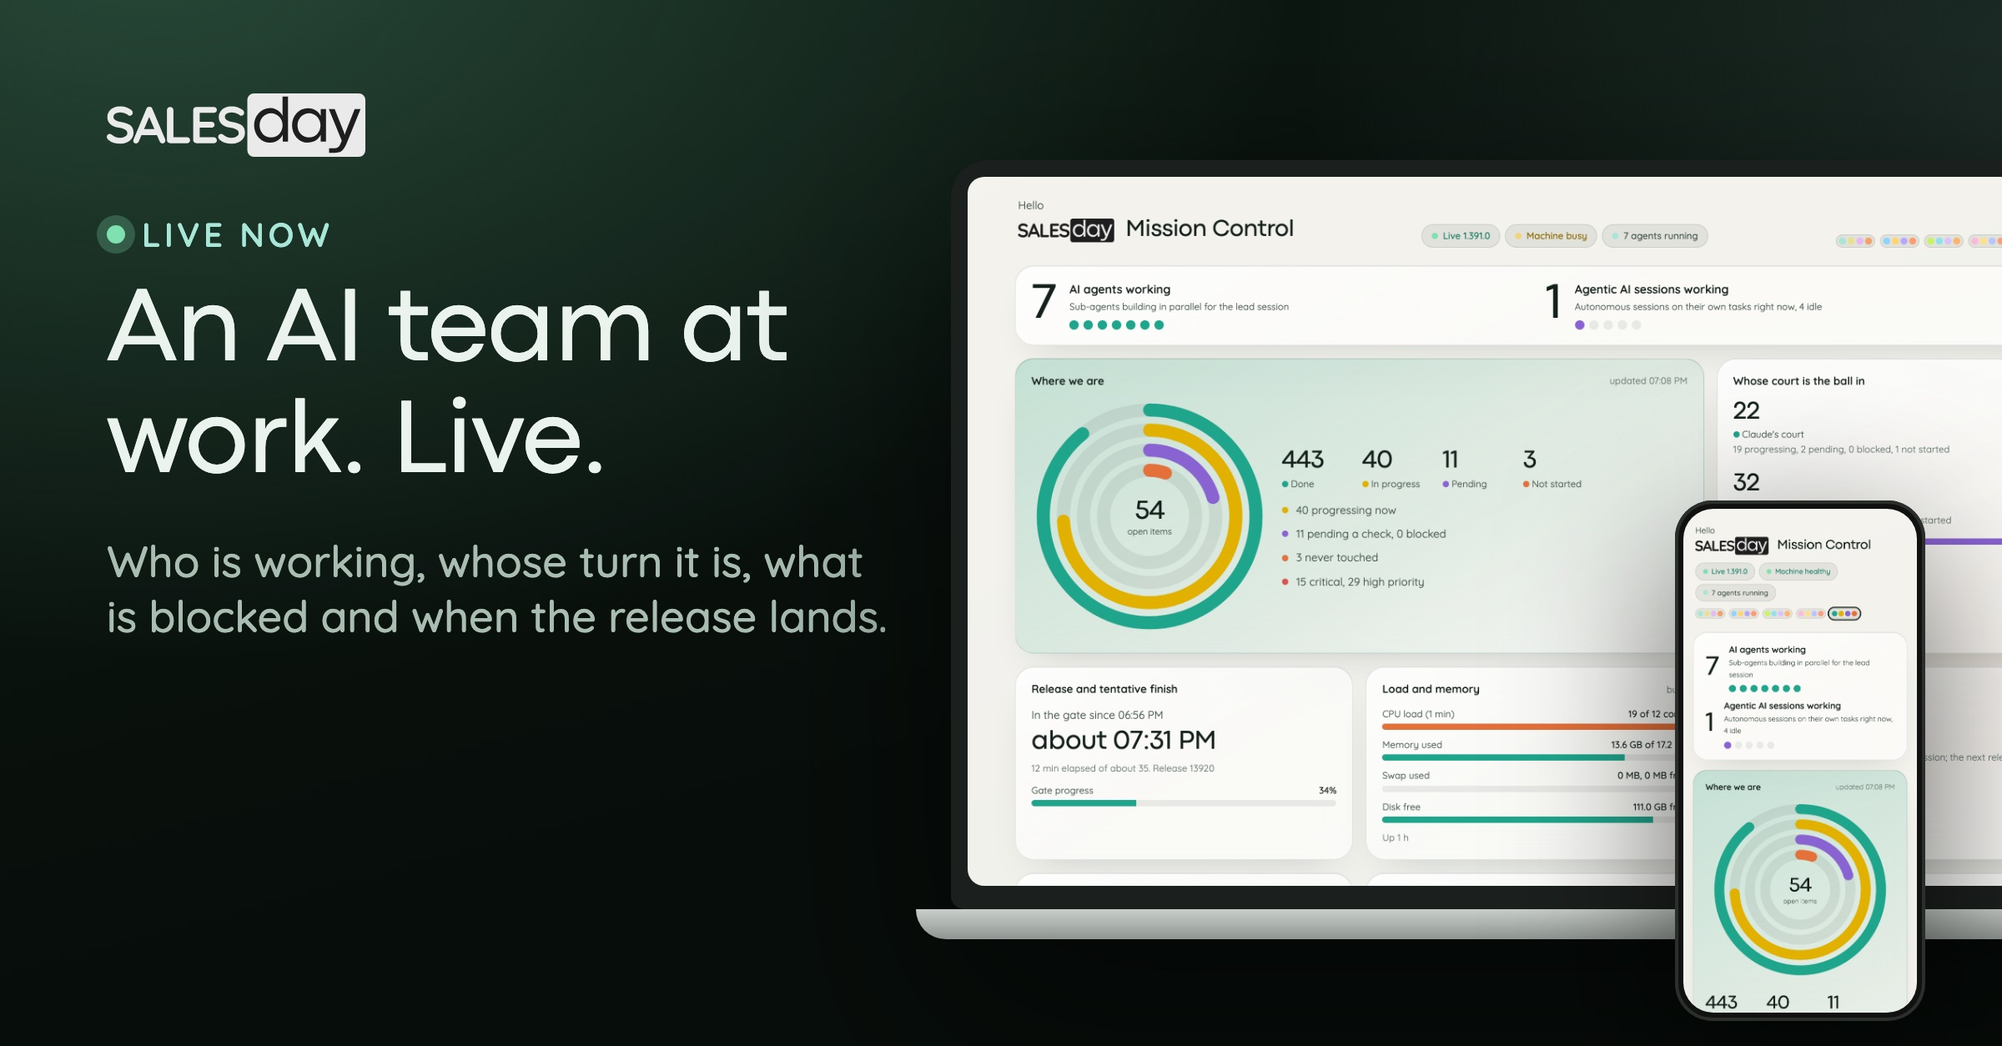
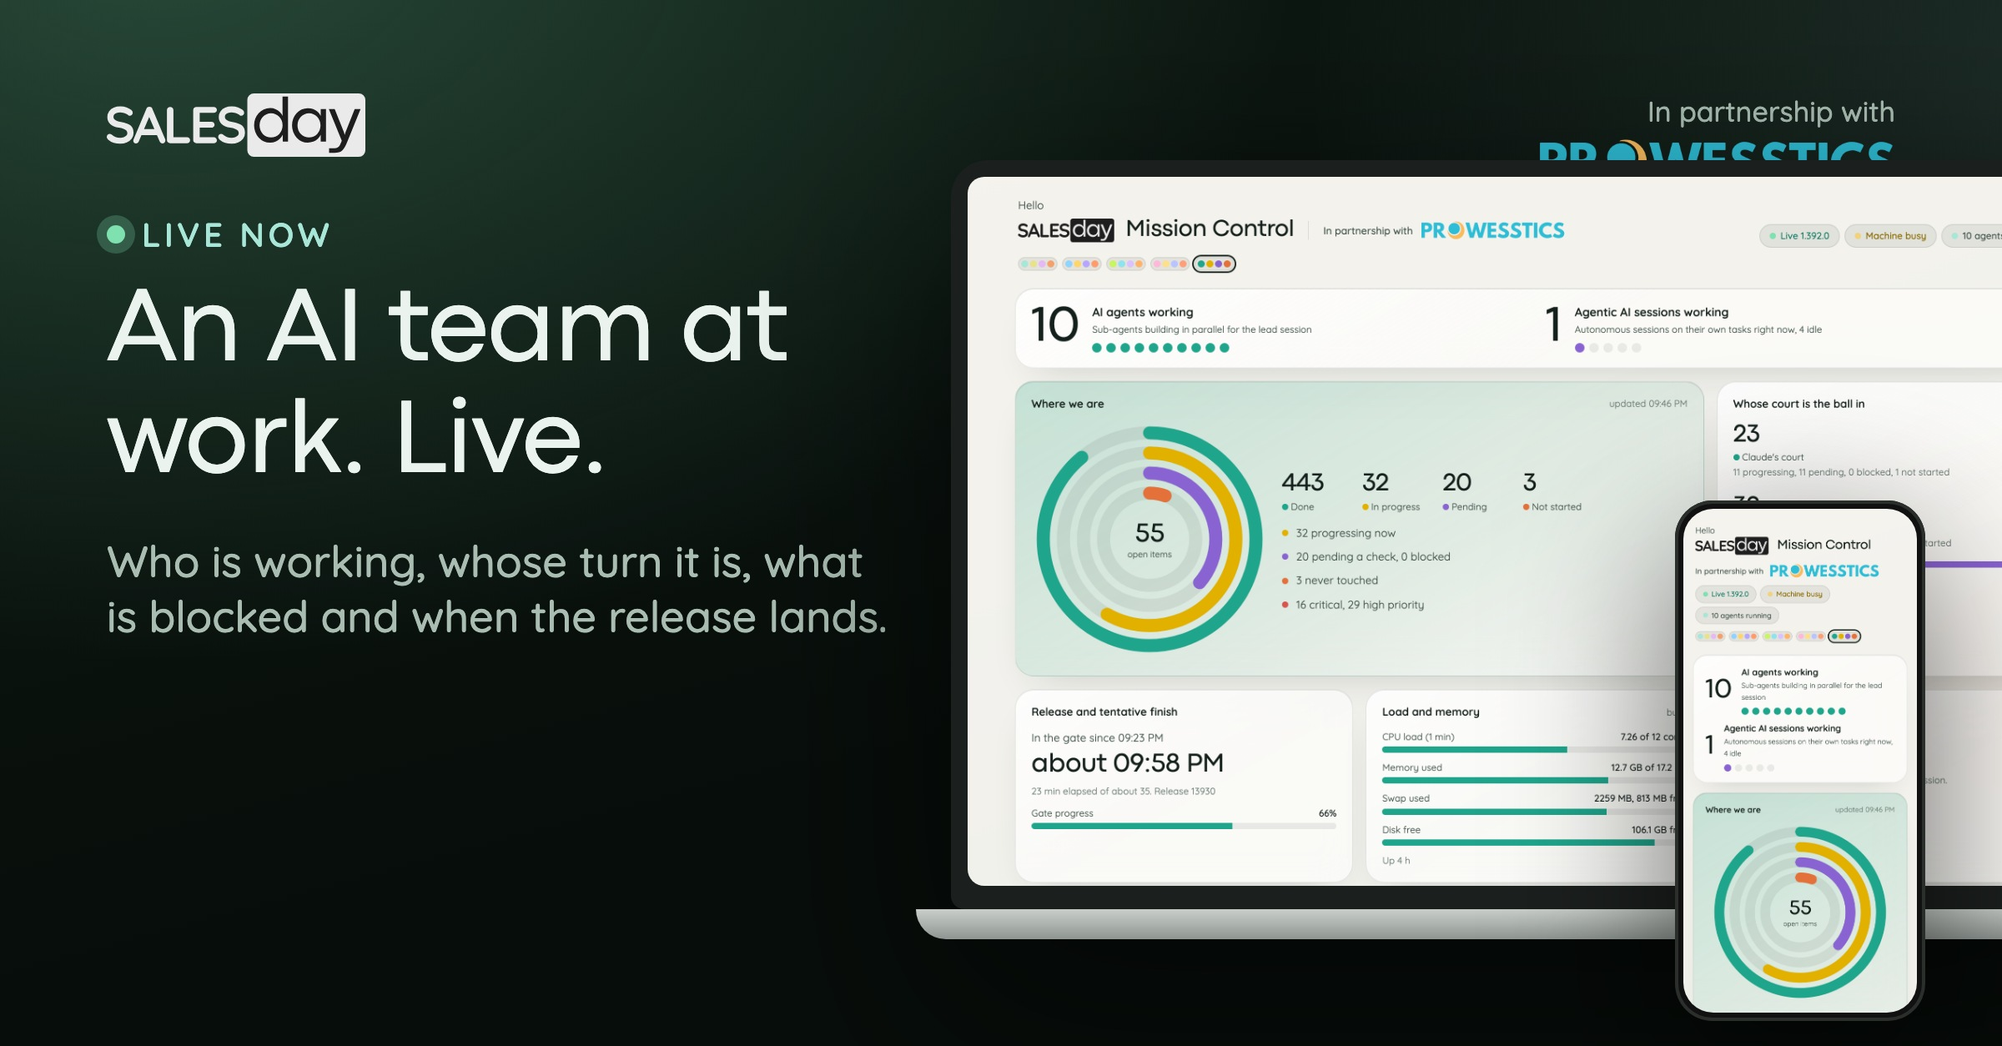
Optional partner co-brand mark (off by default), added to the LinkedIn images

diff --git a/linkedin/carousel-android.js b/linkedin/carousel-android.js
@@ -8,16 +8,17 @@ const u = (p) => 'file://' + p;
 const fonts = `@font-face{font-family:Quicksand;font-weight:400 700;src:url(${u(R + '/public/fonts/quicksand-latin.woff2')}) format('woff2')}@font-face{font-family:"Codec Pro";font-weight:400;src:url(${u(R + '/public/fonts/codec-pro-regular.woff2')}) format('woff2')}`;
 const bg = `radial-gradient(1100px 700px at 8% -6%,rgba(86,160,125,.34),transparent 62%),radial-gradient(800px 640px at 105% 8%,rgba(168,230,216,.12),transparent 60%),linear-gradient(165deg,#0F1B14,#070D0A 64%)`;
 const wm = u(R + '/public/brand/salesday-wordmark-reversed.svg');
+const PL = u(R + '/public/brand/partner-logo.png');
 const names = ['01-today', '02-signin', '03-contact-card', '04-call-outcome', '05-offline-outbox', '06-notifications', '07-meetings', '08-card-capture', '09-voice-note', '10-widget-dark'];
 const files = fs.readdirSync(PH).filter((f) => /^post-\d\d-.*\.jpg$/.test(f)).sort();
 const css = `${fonts}@page{size:1080px 1350px;margin:0}*{box-sizing:border-box}html,body{margin:0;background:#070D0A}.s{position:relative;width:1080px;height:1350px;overflow:hidden;page-break-after:always;break-after:page;font-family:Quicksand,"Avenir Next",sans-serif;color:#EAF3EE;padding:76px 80px;display:flex;flex-direction:column;background:${bg}}
-.top{display:flex;justify-content:space-between;align-items:center;height:56px;flex:none}.top img{height:44px}.top span{font-size:24px;color:#A9BDB2;letter-spacing:.04em}
+.top{display:flex;justify-content:space-between;align-items:center;height:56px;flex:none}.top img{height:44px}.top span{font-size:24px;color:#A9BDB2;letter-spacing:.04em;display:flex;flex-direction:column;align-items:flex-end;gap:6px}.top span img{height:28px;width:auto;display:block}.top span em{font-style:normal;font-size:22px}
 .k{font-size:26px;letter-spacing:.14em;text-transform:uppercase;color:#A8E6D8;font-weight:600}h1{margin:16px 0 0;font-family:"Codec Pro",Quicksand,sans-serif;font-weight:400;font-size:98px;line-height:1.03;letter-spacing:-.015em}p{margin:20px 0 0;font-size:34px;color:#A9BDB2;font-weight:500;max-width:820px}
 .mid{flex:1;display:flex;align-items:center;justify-content:center;gap:26px;min-height:0}.mid img{height:640px;display:block}.foot{flex:none;height:50px;display:flex;justify-content:space-between;align-items:center;font-size:26px;color:#6E8578;font-weight:500}.sw{color:#E8E28C;font-weight:600}
 .img{padding:0;display:block}.img img{width:1080px;height:1350px;display:block}`;
-const cover = `<section class="s" id="cover"><div class="top"><img src="${wm}"><span>1 / 12</span></div><div style="margin-top:46px"><div class="k">SalesDay for Android</div><h1>The first ten screens.</h1><p>Designed around one sales rep's day, before a single line of code.</p></div><div class="mid"><img src="${u(PH + '/_phones/01-today.png')}" style="height:600px"><img src="${u(PH + '/_phones/02-signin.png')}" style="height:600px"><img src="${u(PH + '/_phones/03-contact-card.png')}" style="height:600px"></div><div class="foot"><span>Design preview, not a release</span><span class="sw">Swipe &rarr;</span></div></section>`;
+const cover = `<section class="s" id="cover"><div class="top"><img src="${wm}"><span><img src="${PL}"><em>1 / 12</em></span></div><div style="margin-top:46px"><div class="k">SalesDay for Android</div><h1>The first ten screens.</h1><p>Designed around one sales rep's day, before a single line of code.</p></div><div class="mid"><img src="${u(PH + '/_phones/01-today.png')}" style="height:600px"><img src="${u(PH + '/_phones/02-signin.png')}" style="height:600px"><img src="${u(PH + '/_phones/03-contact-card.png')}" style="height:600px"></div><div class="foot"><span>Design preview, not a release</span><span class="sw">Swipe &rarr;</span></div></section>`;
 const mids = files.map((f) => `<section class="s img"><img src="${u(PH + '/' + f)}"></section>`).join('');
-const end = `<section class="s" id="end"><div class="top"><img src="${wm}"><span>12 / 12</span></div><div style="flex:1;display:flex;flex-direction:column;justify-content:center"><div class="k">Your turn</div><h1>Which screen would you open first?</h1><p>One thing a sales app must do well on a phone: tell me in the comments.</p><p style="margin-top:44px;color:#EAF3EE;font-weight:600">Follow for the build, one release at a time.</p></div><div class="foot"><span>SalesDay for Android</span><span class="sw">Design preview</span></div></section>`;
+const end = `<section class="s" id="end"><div class="top"><img src="${wm}"><span><img src="${PL}"><em>12 / 12</em></span></div><div style="flex:1;display:flex;flex-direction:column;justify-content:center"><div class="k">Your turn</div><h1>Which screen would you open first?</h1><p>One thing a sales app must do well on a phone: tell me in the comments.</p><p style="margin-top:44px;color:#EAF3EE;font-weight:600">Follow for the build, one release at a time.</p></div><div class="foot"><span>SalesDay for Android</span><span class="sw">Design preview</span></div></section>`;
 (async () => {
   const b = await pw.chromium.launch();
   const tmp = path.join(OUT, '_tmp.html'); fs.writeFileSync(tmp, `<!doctype html><meta charset="utf-8"><style>${css}</style>${cover}${mids}${end}`);

diff --git a/linkedin/compose.js b/linkedin/compose.js
@@ -9,6 +9,8 @@ const u = (p) => 'file://' + p;
 const fonts = `@font-face{font-family:Quicksand;font-weight:400 700;src:url(${u(R + '/public/fonts/quicksand-latin.woff2')}) format('woff2')}@font-face{font-family:"Codec Pro";font-weight:400;src:url(${u(R + '/public/fonts/codec-pro-regular.woff2')}) format('woff2')}`;
 const bg = `radial-gradient(1100px 700px at 8% -6%,rgba(86,160,125,.34),transparent 62%),radial-gradient(800px 640px at 105% 8%,rgba(168,230,216,.12),transparent 60%),linear-gradient(165deg,#0F1B14,#070D0A 64%)`;
 const wm = u(R + '/public/brand/salesday-wordmark-reversed.svg');
+const pl = u(R + '/public/brand/partner-logo.png');
+const partner = (h, fs) => `<div style="position:absolute;right:80px;top:70px;display:flex;flex-direction:column;align-items:flex-end;gap:8px"><span style="font-size:${fs}px;color:#A9BDB2;font-weight:500">In partnership with</span><img src="${pl}" style="height:${h}px;display:block"></div>`;
 const laptop = (w, src) => `<div style="width:${w}px;filter:drop-shadow(0 40px 60px rgba(0,0,0,.55))"><div style="background:#1b1f1d;border-radius:22px 22px 8px 8px;padding:${w * .014}px ${w * .014}px ${w * .02}px"><div style="border-radius:10px;overflow:hidden;line-height:0"><img src="${src}" style="width:100%;display:block"></div></div><div style="height:${w * .026}px;margin:0 -${w * .03}px;background:linear-gradient(#c9ceca,#8f9692);border-radius:0 0 18px 18px"></div></div>`;
 const phone = (w, src) => `<div style="width:${w}px;background:#111;border-radius:${w * .15}px;padding:${w * .035}px;filter:drop-shadow(0 30px 50px rgba(0,0,0,.6));box-shadow:0 0 0 2px #2a2f2c inset"><div style="border-radius:${w * .12}px;overflow:hidden;line-height:0"><img src="${src}" style="width:100%;display:block"></div></div>`;
 const base = `${fonts}*{box-sizing:border-box}html,body{margin:0}body{font-family:Quicksand,"Avenir Next",sans-serif;color:#EAF3EE;background:${bg};overflow:hidden;position:relative}h1{margin:0;font-family:"Codec Pro",Quicksand,sans-serif;font-weight:400;letter-spacing:-.01em;line-height:1.04}.pill{white-space:nowrap;display:inline-block;padding:16px 30px;border-radius:999px;background:#E8E28C;color:#1B2210;font-weight:600;font-size:30px}.live{display:inline-flex;align-items:center;gap:10px;font-size:24px;color:#A8E6D8;font-weight:600;letter-spacing:.12em;text-transform:uppercase}.live i{width:14px;height:14px;border-radius:50%;background:#7FE0B0;box-shadow:0 0 0 6px rgba(127,224,176,.25)}`;
@@ -19,7 +21,7 @@ const load = async (page, html) => { const f = path.join(OUT, '_tmp.html'); fs.w
   const b = await pw.chromium.launch();
   const p = await b.newPage({ viewport: { width: 1080, height: 1350 }, deviceScaleFactor: 2 });
   await load(p, `<style>${base}body{width:1080px;height:1350px;padding:76px 80px}</style>
-  <img src="${wm}" style="height:44px;display:block"><div class="live" style="margin-top:46px"><i></i>Live right now</div>
+  <img src="${wm}" style="height:44px;display:block">${partner(36, 22)}<div class="live" style="margin-top:46px"><i></i>Live right now</div>
   <h1 style="font-size:92px;margin-top:20px">Watch an AI team build a product. Live.</h1>
   <div style="position:absolute;left:60px;top:430px">${laptop(860, u('/tmp/desk.png'))}</div>
   <div style="position:absolute;right:56px;top:520px">${phone(250, u('/tmp/phone.png'))}</div>
@@ -28,7 +30,7 @@ const load = async (page, html) => { const f = path.join(OUT, '_tmp.html'); fs.w
   await p.screenshot({ path: path.join(OUT, 'post2-hero-1080x1350.jpg'), type: 'jpeg', quality: 93 });
   const q = await b.newPage({ viewport: { width: 1200, height: 627 }, deviceScaleFactor: 2 });
   await load(q, `<style>${base}body{width:1200px;height:627px;padding:56px 64px}</style>
-  <img src="${wm}" style="height:38px;display:block"><div class="live" style="margin-top:34px;font-size:20px"><i style="width:11px;height:11px"></i>Live now</div>
+  <img src="${wm}" style="height:38px;display:block"><div style="position:absolute;right:64px;top:56px;display:flex;flex-direction:column;align-items:flex-end;gap:6px"><span style="font-size:17px;color:#A9BDB2;font-weight:500">In partnership with</span><img src="${pl}" style="height:28px;display:block"></div><div class="live" style="margin-top:34px;font-size:20px"><i style="width:11px;height:11px"></i>Live now</div>
   <h1 style="font-size:64px;margin-top:14px;width:520px">An AI team at work. Live.</h1>
   <p style="font-size:26px;color:#A9BDB2;font-weight:500;width:470px;margin:20px 0 0">Who is working, whose turn it is, what is blocked and when the release lands.</p>
   <div style="position:absolute;right:-70px;top:96px">${laptop(700, u('/tmp/desk.png'))}</div>

diff --git a/public/index.html b/public/index.html
@@ -44,10 +44,11 @@ canvas.chart{display:block;width:100%;height:210px;border-radius:14px}canvas.cha
 @media(prefers-reduced-motion:reduce){.crewDots i{animation:none}}
 footer{color:var(--ink3);font-size:12px;text-align:center}
 .brand{display:flex;align-items:center;gap:14px;flex-wrap:wrap}.brand img{height:30px;width:auto;display:block}.brand h1{margin:0;font-size:clamp(22px,2.8vw,30px)}
+.partner{display:inline-flex;align-items:center;gap:10px;padding-left:18px;margin-left:4px;border-left:1px solid var(--line);color:var(--ink2);font-size:13px;font-weight:500}.partner img{height:24px;width:auto;display:block}@media(max-width:700px){.partner{padding-left:0;margin-left:0;border-left:0;flex-basis:100%}}
 .swatches{display:inline-flex;gap:6px;align-items:center}.swatches button{border:1px solid var(--line);background:var(--track);padding:3px;border-radius:999px;cursor:pointer;display:inline-flex;gap:2px}.swatches button[aria-pressed=true]{outline:2px solid var(--ink);outline-offset:1px}.swatches i{width:9px;height:9px;border-radius:50%;display:block}
 </style></head>
 <body><div class="wrap">
-<header><div><div class="hi" id="hi">Hello</div><div class="brand"><img id="logo" src="brand/salesday-wordmark-reversed.svg" alt="SalesDay" height="30"><h1 id="title">Mission Control</h1></div></div><div class="pills" id="pills"></div><div class="swatches" id="themes" role="group" aria-label="Colour scheme"></div></header>
+<header><div><div class="hi" id="hi">Hello</div><div class="brand"><img id="logo" src="brand/salesday-wordmark-reversed.svg" alt="SalesDay" height="30"><h1 id="title">Mission Control</h1><span class="partner" id="partner" hidden><span>In partnership with</span><img src="brand/partner-logo.png" alt="Channel partner logo" height="24"></span></div></div><div class="pills" id="pills"></div><div class="swatches" id="themes" role="group" aria-label="Colour scheme"></div></header>
 <div class="grid">
   <section class="card c12 crew" aria-label="Agents working now" id="crew"></section>
   <section class="card tint c8" aria-label="Progress"><h2>Where we are <span class="sub" id="upd"></span></h2><div class="hero"><div class="ring" id="ring"></div><div><div class="kpi" id="kpi"></div><div class="legend" id="legend" style="margin-top:14px"></div></div></div></section>
@@ -92,7 +93,7 @@ function list(arr,withAgo){return arr.length?arr.map((r)=>rowEl(r,withAgo)):[el(
 function meter(label,val,max,fmt,warn){const m=el('div','meter');const l=el('div','l');l.append(el('span',null,label),el('b',null,fmt));const b=el('div','bar');const i=el('i');const f=max?Math.min(1,val/max):0;i.style.width=(f*100)+'%';i.style.background=warn&&f>warn?C.coral:C.mint;b.append(i);m.append(l,b);return m}
 function render(s){
   last=s;const L=s.labels;
-  $('hi').textContent=s.owner?('Hello, '+s.owner):'Hello';document.title=s.project+' Mission Control';
+  $('hi').textContent=s.owner?('Hello, '+s.owner):'Hello';document.title=s.project+' Mission Control';$('partner').hidden=!(s.partner&&s.partner.enabled);
   const pills=[];const mk=(t,c)=>{const p=el('span','pill '+(c||''));const d=el('span','dot');d.style.background=c==='ok'?'#7FE0B0':c==='watch'?'#F2D27A':c==='critical'?'#F29A8A':'#A8E6D8';p.append(d,document.createTextNode(t));return p};
   if(s.liveVersion)pills.push(mk('Live '+s.liveVersion,'ok'));pills.push(mk(s.machine.level==='ok'?'Machine healthy':s.machine.level==='watch'?'Machine busy':'Memory critical',s.machine.level));if(s.stale)pills.push(mk('Publisher offline, last update '+hhmm(s.publishedAt||s.at),'watch'));pills.push(mk(s.agents.running+(s.agents.running===1?' agent running':' agents running')));put($('pills'),pills);
   $('upd').textContent='updated '+hhmm(s.at);

diff --git a/server.js b/server.js
@@ -133,7 +133,7 @@ function state() {
     totals: { rows: rows.length, open: open.length, done: cnt((r) => r.st === 'C') },
     status: { I: cnt((r) => r.st === 'I'), P: cnt((r) => r.st === 'P'), B: cnt((r) => r.st === 'B'), N: cnt((r) => r.st === 'N'), C: cnt((r) => r.st === 'C') },
     courts: { ai: { I: S('ai', 'I'), P: S('ai', 'P'), B: S('ai', 'B'), N: S('ai', 'N') }, you: { I: S('you', 'I'), P: S('you', 'P'), B: S('you', 'B'), N: S('you', 'N') } },
-    critical: open.filter((r) => r.pri === 'critical').sort(byUrgency).slice(0, 8), high: cnt((r) => r.st !== 'C' && r.pri === 'high'), criticalCount: cnt((r) => r.st !== 'C' && r.pri === 'critical'), openDots: open.map((r) => ({ st: r.st, crit: r.pri === 'critical' })),
+    critical: open.filter((r) => r.pri === 'critical').sort(byUrgency).slice(0, 8), high: cnt((r) => r.st !== 'C' && r.pri === 'high'), partner: { enabled: !!(cfg.partner && cfg.partner.enabled) }, criticalCount: cnt((r) => r.st !== 'C' && r.pri === 'critical'), openDots: open.map((r) => ({ st: r.st, crit: r.pri === 'critical' })),
     todoAi: by('ai').slice(0, 9), todoYou: by('you').slice(0, 9),
     progressing: open.filter((r) => r.st === 'I').sort(byUrgency).slice(0, 8), queue: open.filter((r) => r.st === 'N' || r.st === 'P').sort(byUrgency).slice(0, 8),
     neverTouched: open.filter((r) => r.st === 'N').sort(byUrgency).slice(0, 8), neverTouchedCount: cnt((r) => r.st === 'N'),
@@ -162,8 +162,8 @@ const server = http.createServer((q, s) => {
   if (q.url.startsWith('/api/live?history')) { s.setHeader('content-type', 'application/json'); s.setHeader('cache-control', 'no-store'); return s.end(JSON.stringify({ history: liveHistory })); }
   if (q.url.startsWith('/api/live')) { s.setHeader('content-type', 'application/json'); s.setHeader('cache-control', 'no-store'); return s.end(JSON.stringify(liveSample())); }
   if (q.url.startsWith('/api/state')) { s.setHeader('content-type', 'application/json'); s.setHeader('cache-control', 'no-store'); return s.end(JSON.stringify(state())); }
-  const url = q.url.split('?')[0], TYPES = { '.js': 'text/javascript', '.css': 'text/css', '.svg': 'image/svg+xml', '.html': 'text/html; charset=utf-8', '.json': 'application/json', '.woff2': 'font/woff2', '.jpg': 'image/jpeg' };
-  const asset = url === '/demo-state.json' ? path.join(HERE, 'docs', 'demo-state.json') : /^\/(theme\.js|widgets\.js|widgets\.css|themes\.html|brand\/[\w.-]+\.svg|fonts\/[\w.-]+\.woff2|og-image\.jpg)$/.test(url) ? path.join(HERE, 'public', url.slice(1)) : null;
+  const url = q.url.split('?')[0], TYPES = { '.js': 'text/javascript', '.css': 'text/css', '.svg': 'image/svg+xml', '.html': 'text/html; charset=utf-8', '.json': 'application/json', '.woff2': 'font/woff2', '.jpg': 'image/jpeg', '.png': 'image/png' };
+  const asset = url === '/demo-state.json' ? path.join(HERE, 'docs', 'demo-state.json') : /^\/(theme\.js|widgets\.js|widgets\.css|themes\.html|brand\/[\w.-]+\.(?:svg|png)|fonts\/[\w.-]+\.woff2|og-image\.jpg)$/.test(url) ? path.join(HERE, 'public', url.slice(1)) : null;
   if (asset && fs.existsSync(asset)) { s.setHeader('content-type', TYPES[path.extname(asset)] || 'application/octet-stream'); s.setHeader('cache-control', 'no-store'); return s.end(fs.readFileSync(asset)); }
   s.setHeader('content-type', 'text/html; charset=utf-8'); s.setHeader('cache-control', 'no-store'); s.end(PAGE());
 });

diff --git a/carousel/slides.html b/carousel/slides.html
@@ -6,7 +6,7 @@
 *{box-sizing:border-box}html,body{margin:0;background:#0b1410}
 .s{position:relative;width:1080px;height:1350px;overflow:hidden;page-break-after:always;break-after:page;color:var(--ink);font-family:var(--ui);font-size:36px;line-height:1.35;padding:84px 90px;display:flex;flex-direction:column;
  background:radial-gradient(1200px 760px at 8% -6%,var(--glow1),transparent 62%),radial-gradient(900px 700px at 105% 8%,var(--glow2),transparent 60%),linear-gradient(165deg,var(--bg1),var(--bg0) 64%)}
-.top{display:flex;justify-content:space-between;align-items:center;height:60px;flex:none}.top img{height:44px;display:block}.top .pg{font-size:26px;color:var(--ink2);font-weight:500;letter-spacing:.04em}
+.top{display:flex;justify-content:space-between;align-items:center;height:60px;flex:none}.top img{height:44px;display:block}.top .pg{font-size:24px;color:var(--ink2);font-weight:500;letter-spacing:.04em;display:flex;flex-direction:column;align-items:flex-end;gap:6px}.top .pg .pl{height:28px;width:auto;display:block}.top .pg em{font-style:normal;font-size:22px}
 .body{flex:1;display:flex;flex-direction:column;justify-content:center;gap:34px;min-height:0;padding:20px 0}
 .k{font-size:26px;letter-spacing:.14em;text-transform:uppercase;color:var(--a1);font-weight:600}
 h1,h2{margin:0;font-family:var(--num);font-weight:400;letter-spacing:-.015em;line-height:1.04;text-wrap:balance}h1{font-size:96px}h2{font-size:84px}
@@ -30,7 +30,7 @@ canvas{display:block;width:100%;height:340px}
 <script>
 const D=window.DATA,N=9,LOGO='../public/brand/salesday-wordmark-reversed.svg';
 const S=D.status,ai=D.courts.ai,yo=D.courts.you,sum=(c)=>c.I+c.P+c.B+c.N;
-function slide(i,html,foot){const n=document.getElementById('s'+i);applyTheme('forest',n);n.innerHTML=`<div class="top"><img src="${LOGO}" alt="SalesDay"><span class="pg">${i} / ${N}</span></div><div class="body">${html}</div><div class="foot"><span>SalesDay Mission Control</span>${i<N?'<span class="swipe">Swipe  &rarr;</span>':'<span class="swipe">Follow for the build</span>'}</div>`;return n}
+function slide(i,html,foot){const n=document.getElementById('s'+i);applyTheme('forest',n);n.innerHTML=`<div class="top"><img src="${LOGO}" alt="SalesDay"><span class="pg"><img class="pl" src="../public/brand/partner-logo.png" alt="Channel partner logo"><em>${i} / ${N}</em></span></div><div class="body">${html}</div><div class="foot"><span>SalesDay Mission Control</span>${i<N?'<span class="swipe">Swipe  &rarr;</span>':'<span class="swipe">Follow for the build</span>'}</div>`;return n}
 // 1 hook
 let n=slide(1,`<div class="k">Built in public</div><h1>I gave my AI team a mission control.</h1><p>One live page shows who is working, whose turn it is, what is blocked and when the next release lands.</p><div class="ringBox" id="r1"></div>`);
 {const o=D.open;const r=ring([{v:D.done/D.rows,color:'var(--a1)'},{v:S.I/o,color:'var(--a2)'},{v:(S.P+S.B)/o,color:'var(--a3)'},{v:S.N/o,color:'var(--a4)'}]);const m=document.createElement('div');m.className='mid';m.innerHTML=`<b>${D.open}</b><span>open items, live</span>`;n.querySelector('#r1').append(r,m)}

diff --git a/README.md b/README.md
@@ -127,8 +127,13 @@ The `owner` field is also blanked. Masking is pattern based, so it cannot know w
 - **Quicksand**, used for interface text, is licensed under the SIL Open Font License 1.1.
 - **Codec Pro Regular**, used for headline numbers and the page title, is licensed under CC BY 4.0. Codec Pro is made available by Web Fonts (http://www.onlinewebfonts.com) under CC BY 4.0.
 
-Details are in `public/fonts/FONTS.md`. The SalesDay wordmark files in `public/brand/` are SalesDay brand assets. They are **not** covered by the MIT licence: do not reuse them without permission.
+Details are in `public/fonts/FONTS.md`. The SalesDay wordmark files and the partner logo in `public/brand/` are brand assets of their owners. They are **not** covered by the MIT licence: do not reuse them without permission.
 
 ## Licence
 
 MIT for the code. See `LICENSE`. The fonts above and the SalesDay wordmark keep their own terms.
+
+
+## Partner logo (optional)
+
+Set `"partner": { "enabled": true }` in `mission.config.json` to show a small "In partnership with" mark in the header (`public/brand/partner-logo.png`). It is off in the example config. Set it to `false` to remove it everywhere.
